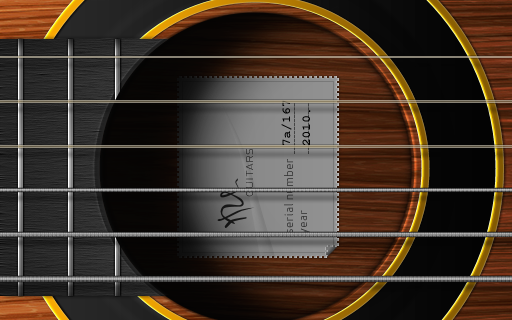
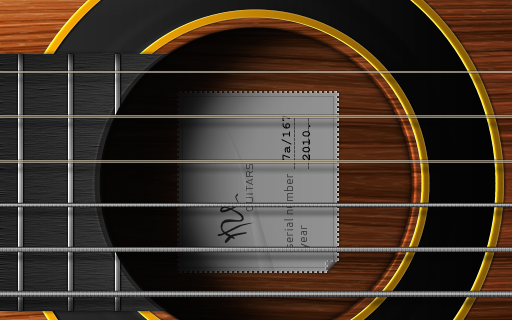
change guitar view

diff --git a/src/fr/utc/leapband/view/GuitarWidgetView.java b/src/fr/utc/leapband/view/GuitarWidgetView.java
@@ -44,13 +44,6 @@ public class GuitarWidgetView extends JButton implements PropertyChangeListener{
 
 	@Override
 	public void propertyChange(PropertyChangeEvent evt) {
-//		if (evt.getPropertyName().equals(Constance.CHANGE_FRAME)) {
-//			if ((String)evt.getOldValue() == getName()) {
-//				setVisible(false);
-//			} else if ((String)evt.getNewValue() == getName()) {
-//				setVisible(true);
-//			}
-//		}
 		if (isVisible()) {
 			if (evt.getPropertyName().equals("chord")) {
 				if (id == (int)evt.getNewValue()) {

diff --git a/src/fr/utc/leapband/view/Guitar.java b/src/fr/utc/leapband/view/Guitar.java
@@ -7,7 +7,7 @@ import fr.utc.leapband.utilities.Constance;
 
 public class Guitar extends JLabel{
 	public static double x=Constance.Windows_width;
-	public static double y=Constance.Windows_height*0.05;
+	public static double y=Constance.Windows_height*0.1;
 	
 	public static int width=(int)(Constance.Windows_width*0.09);
 	public static int height=(int)(Constance.Windows_height*0.85);
